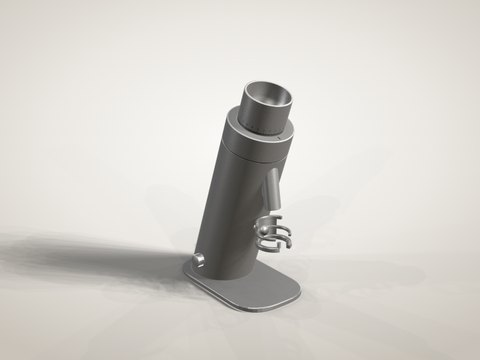
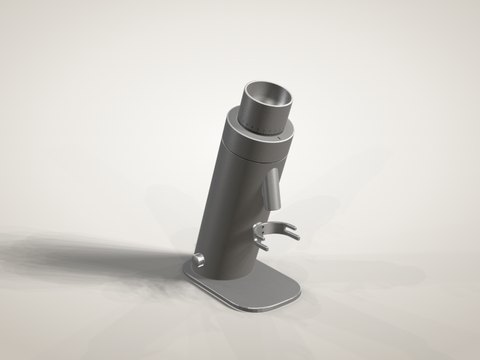
Lagom P80: Siebträgerhalter nach den Werksfotos neu aufgebaut
Statt waagerechter U-Platten ein senkrechtes, vorn offenes C-Band
(21,5 mm hoch, 4,5 mm stark, Höhe 114 bis 135,5 mm) mit gegabelten Enden:
waagerechter Schlitz mit gerundetem Ende für die Ohren des Siebträgers,
die untere Zinke ragt 9 mm weiter vor als die obere. Hinten zwei
Senkschrauben mit Innensechskant auf einem runden Zapfen (Ø 20 mm) aus
der Säule. Maße aus der Seitenansicht DSCF0049, Form aus den Nahaufnahmen.

Claude-Session: https://claude.ai/code/session_01XVE81muw7HYcqaEMYwBuXM

Changed region(s): [[0.5, 0.5806, 0.625, 0.7028], [0.375, 0.7639, 0.4062, 0.825]]

diff --git a/js/devices/lagom.js b/js/devices/lagom.js
@@ -8,7 +8,8 @@
 // sowie die Strichzeichnungen der Kurzanleitung (Seiten-, Detailansichten).
 // Aus der Seitenansicht: Säule Ø 114 mm, 20° nach vorn geneigt, Oberteil
 // 41 mm, Trichter Ø 80 × 56 mm mit Skala, Auslauf Ø 28 mm bis 172 mm Höhe,
-// Gabel 106–149 mm, Tasten Auto/Manuell Ø 21 mm auf der rechten Seite,
+// Siebträgerhalter als senkrechtes C-Band 114–135,5 mm mit gegabelten Enden,
+// Tasten Auto/Manuell Ø 21 mm auf der rechten Seite,
 // Drehzahlknopf links.
 //
 // Koordinaten: X = Breite, Y = Höhe (0 = Stellfläche), Z = Tiefe (+Z = Front).
@@ -207,46 +208,95 @@ function buildLagom(mm) {
   }
   B.stage('fork');
   {
-    const cz = zOf(28);
-    const ro = 31;
-    const ri = 24.5;
-    const open = (21 * Math.PI) / 180; // halbe Öffnung vorn
-    // Grundriss in (x, z): Winkel ab +Z gemessen; Shape-Koordinaten (x, z)
-    const arc = (r, a0, a1, n = 40) => {
-      const pts = [];
-      for (let k = 0; k <= n; k++) {
-        const a = a0 + ((a1 - a0) * k) / n;
-        pts.push([Math.sin(a) * r, cz + Math.cos(a) * r]);
-      }
-      return pts;
-    };
-    const uShape = (r1, r2, a0, a1) => {
+    // Siebträgerhalter nach den Werksfotos (Seitenansicht DSCF0049, Nahaufnahmen DSCF9938/9939):
+    // senkrechtes, C-förmiges Band (21 mm hoch, 4,5 mm stark), vorn offen, an beiden Enden
+    // gegabelt: waagerechter Schlitz für die Ohren des Siebträgers, die untere Zinke ragt
+    // rund 9 mm weiter vor als die obere. Hinten mit zwei Senkschrauben an einem runden
+    // Zapfen (Ø 20 mm) aus der Säule befestigt.
+    const ro = 37;
+    const ri = 32.5;
+    const cz = zOf(24); // Mittelpunkt des Bogens
+    const yb = 114; // Unterkante
+    const yS0 = 121.5; // Schlitz unten
+    const yS1 = 129.5; // Schlitz oben
+    const yt = 135.5; // Oberkante
+    const zTipLow = zOf(2.4);
+    const zTipUp = zOf(11.6);
+    const zSlot = zOf(36.3); // Schlitzende (hinter dem Bogenmittelpunkt)
+    // Winkel a ab +Z (vorn) gemessen: x = sin(a)·r, z = cz + cos(a)·r
+    const P = (a, r) => [Math.sin(a) * r, cz + Math.cos(a) * r];
+    const angAt = (z, r) => Math.acos(Math.max(-1, Math.min(1, (z - cz) / r)));
+    const arcPts = (r, a0, a1, n = 36) => Array.from({ length: n + 1 }, (_, k) => P(a0 + ((a1 - a0) * k) / n, r));
+    const shapeOf = (pts) => {
       const sh = new THREE.Shape();
-      const outer = arc(r1, a0, a1);
-      const inner = arc(r2, a1, a0);
-      sh.moveTo(...outer[0]);
-      for (const p of outer.slice(1)) sh.lineTo(...p);
-      for (const p of inner) sh.lineTo(...p);
+      sh.moveTo(...pts[0]);
+      for (const p of pts.slice(1)) sh.lineTo(...p);
       sh.closePath();
       return sh;
     };
-    // untere Auflage (U, vorn offen)
-    B.add(boxProjectUV(plateY(uShape(ro, ri, open, Math.PI * 2 - open), 106, 8, 1.2, 64)), forkMat, S('metal.fork'));
-    // mittlere Lippe (hält die Ohren des Siebträgers)
-    B.add(boxProjectUV(plateY(uShape(ro - 1, ri + 1, open + 0.22, Math.PI * 2 - open - 0.22), 126, 5, 1, 64)), forkMat, S('metal.fork'));
-    // hinterer Steg und obere Lippe
-    B.add(boxProjectUV(plateY(uShape(ro, ro - 4, Math.PI * 0.72, Math.PI * 1.28), 106, 43, 1, 32)), forkMat, S('metal.fork'));
-    B.add(boxProjectUV(plateY(uShape(ro, ri + 2, Math.PI * 0.62, Math.PI * 1.38), 143, 6, 1, 48)), forkMat, S('metal.fork'));
-    // Anschläge vorn an den Armen
-    for (const sx of [-1, 1]) {
-      const a = sx > 0 ? open : Math.PI * 2 - open;
-      const r = (ro + ri) / 2;
-      const st = B.add(new THREE.CylinderGeometry(3.4, 3.4, 9, 16), forkMat, S('metal.fork'));
-      st.position.set(Math.sin(a) * r, 118, cz + Math.cos(a) * r);
+    const part = (sh, y0, h) => B.add(boxProjectUV(plateY(sh, y0, h, 0.7, 48)), forkMat, S('metal.fork'));
+    // hinterer Bogen in voller Höhe (bis zum Schlitzende)
+    {
+      const ao = angAt(zSlot, ro);
+      const ai = angAt(zSlot, ri);
+      part(shapeOf([...arcPts(ro, ao, Math.PI * 2 - ao, 64), ...arcPts(ri, Math.PI * 2 - ai, ai, 64)]), yb, yt - yb);
     }
-    // Halter zur Säule
-    const rod = latheZ([[0.01, 0], [8.5, 0], [8.5, 30], [0.01, 30]], 32);
-    B.add(rod, forkMat, S('metal.fork')).position.set(0, 125, zOf(80));
+    // Zinken: Bogenstück ab kurz hinter dem Schlitzende, dann gerade nach vorn bis zur Spitze
+    const prong = (side, zTip, y0, h) => {
+      const zIn = zSlot - 3; // reicht in den Bogen hinein (Fuge verdeckt)
+      const ao = angAt(zIn, ro);
+      const ai = angAt(zIn, ri);
+      const m = (a) => (side > 0 ? a : Math.PI * 2 - a);
+      const outer = arcPts(ro, m(ao), m(Math.PI / 2), 24);
+      const inner = arcPts(ri, m(Math.PI / 2), m(ai), 24);
+      const pts = [...outer, [side * ro, zTip], [side * ri, zTip], ...inner];
+      const sh = shapeOf(side > 0 ? pts : pts.reverse());
+      part(sh, y0, h);
+    };
+    for (const side of [-1, 1]) {
+      prong(side, zTipLow, yb, yS0 - yb);
+      prong(side, zTipUp, yS1, yt - yS1);
+    }
+    // gerundetes Schlitzende (Halbkreis in der Seitenansicht): Eckstücke zwischen den Zinken
+    {
+      const rs = (yS1 - yS0) / 2;
+      const ym = (yS0 + yS1) / 2;
+      const lo = new THREE.Shape();
+      lo.moveTo(0, yS0);
+      lo.lineTo(rs, yS0);
+      lo.absarc(rs, ym, rs, -Math.PI / 2, -Math.PI, true);
+      lo.closePath();
+      const hi = new THREE.Shape();
+      hi.moveTo(0, yS1);
+      hi.lineTo(0, ym);
+      hi.absarc(rs, ym, rs, Math.PI, Math.PI / 2, true);
+      hi.closePath();
+      const g = new THREE.ExtrudeGeometry([lo, hi], { depth: ro - ri, bevelEnabled: false, curveSegments: 16 });
+      g.translate(0, 0, -(ro - ri) / 2);
+      boxProjectUV(g);
+      const rm = (ro + ri) / 2;
+      const am = angAt(zSlot, rm);
+      for (const side of [-1, 1]) {
+        const a = side > 0 ? am : Math.PI * 2 - am;
+        const d = new THREE.Vector3(-side * Math.cos(a), 0, side * Math.sin(a)); // nach vorn entlang des Bandes
+        const up = new THREE.Vector3(0, 1, 0);
+        const zl = new THREE.Vector3().crossVectors(d, up);
+        const m = B.add(g, forkMat, S('metal.fork'));
+        m.quaternion.setFromRotationMatrix(new THREE.Matrix4().makeBasis(d, up, zl));
+        const [px, pz] = P(a, rm);
+        m.position.set(px, 0, pz);
+      }
+    }
+    // Zapfen aus der Säule bis an die Rückseite des Bandes
+    const yc = (yb + yt) / 2;
+    B.add(latheZ([[0.01, 0], [10, 0], [10, cz - ro - 40 + 0.4], [0.01, cz - ro - 40 + 0.4]], 40), forkMat, S('metal.fork')).position.set(0, yc, 40);
+    // zwei Senkschrauben mit Innensechskant innen auf der Rückseite
+    for (const dy of [-5.2, 5.2]) {
+      const head = B.add(latheZ([[0.01, 0], [2.9, 0], [2.9, 0.25], [2.4, 0.5], [0.01, 0.5]], 24), F.steel || forkMat, S('metal.fork'));
+      head.position.set(0, yc + dy, cz - ri - 0.2);
+      const sock = B.plain(new THREE.CircleGeometry(1.25, 6), F.darkGap);
+      sock.position.set(0, yc + dy, cz - ri + 0.32);
+    }
   }
 
   // =========================================================================
